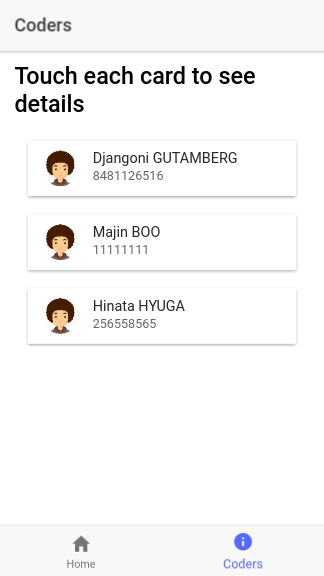
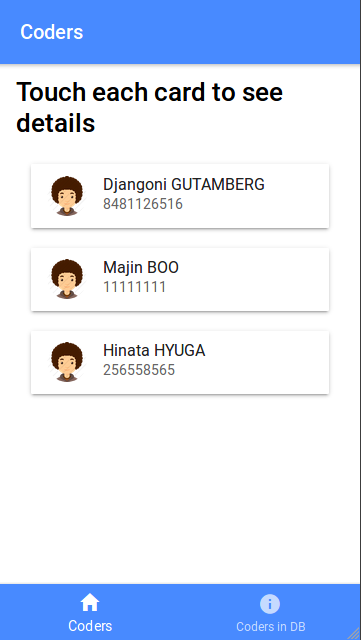
[ Update ]  README UPDATED

Changed region(s): [[0.0, 0.0, 1.0, 1.0], [0.0926, 0.25, 0.9259, 0.625]]

diff --git a/src/pages/tabs/tabs.html b/src/pages/tabs/tabs.html
@@ -1,4 +1,4 @@
-<ion-tabs>
+<ion-tabs color='primary'>
   <ion-tab [root]="tab1Root" tabTitle="Coders" tabIcon="home"></ion-tab>
   <ion-tab [root]="tab2Root" tabTitle="Coders in DB" tabIcon="information-circle"></ion-tab>
 </ion-tabs>

diff --git a/README.md b/README.md
@@ -1,6 +1,7 @@
 # CREATE LOCAL API AND GET DATAS FROM IONIC APP - EXAMPLE
 
-## PART 2 : Get datas from Ionic App
+## PART 2 : Retrieve datas from Ionic App using HttpClient
+Here, we will fetch datas from the local API we've created at the [PART 1](https://github.com/david95thinkcode/Simple-LocalApi). So make sure, you've successfully implemented the API like part 1 shows.
 
 ## Prerequisites
 Make sure you've installed :
@@ -8,18 +9,16 @@ Make sure you've installed :
 - Cordova and Ionic command-line tools
 
 ## How to run it ?
-- Download this repo and extract files or just clone this repository
-- Install dependancies : open your terminal, move to the repo on your computer and run the command :
-```
-npm install
-```
-- Run the ionic app : When the terminal operations will end, run the command : 
-```
-ionic serve
-```
-- When app will run on your browser, go to tab Coders.
-If you see the following image, so it's fine !
-![Coders !](screenshots/coders.png "Current forecast")
+- Download this repository or just clone it
+- Extract files
+- Inside the repo folder, open your terminal and run **`npm install`** to install dependancies.
+- At the end of dependancies installation, run **`ionic serve`** to run your the app on the browser.
 
-## Remark
-I used Http module in the app but it's depreciated since the latest version of Angular.js (I'm talking abot version 5.0). If you can, I recommand you to use the HttpClient module if you're using the last version of Ionic wichs support Angular 5.
+## How to be sure everything is working well ?
+When everything is ok, your default web browser should automaticly open and show you the app.
+If you see the following image, so it's fine !
+
+![Coders !](screenshots/coders.png "Coders")
+
+If this page doesn't appear, make sure you've done everything on the [PART 1](https://github.com/david95thinkcode/Simple-LocalApi) and everything in the section **`How to run it`** of this repository.
+
